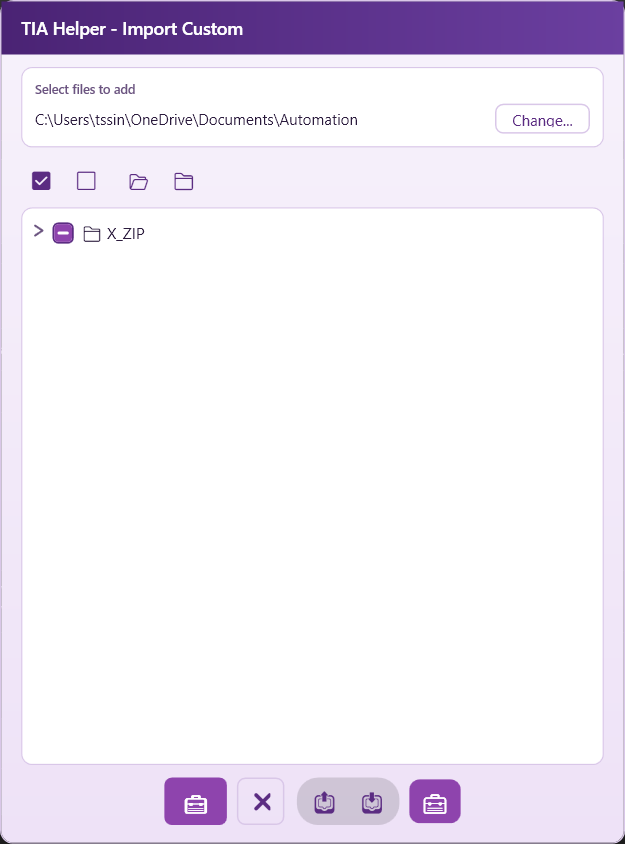
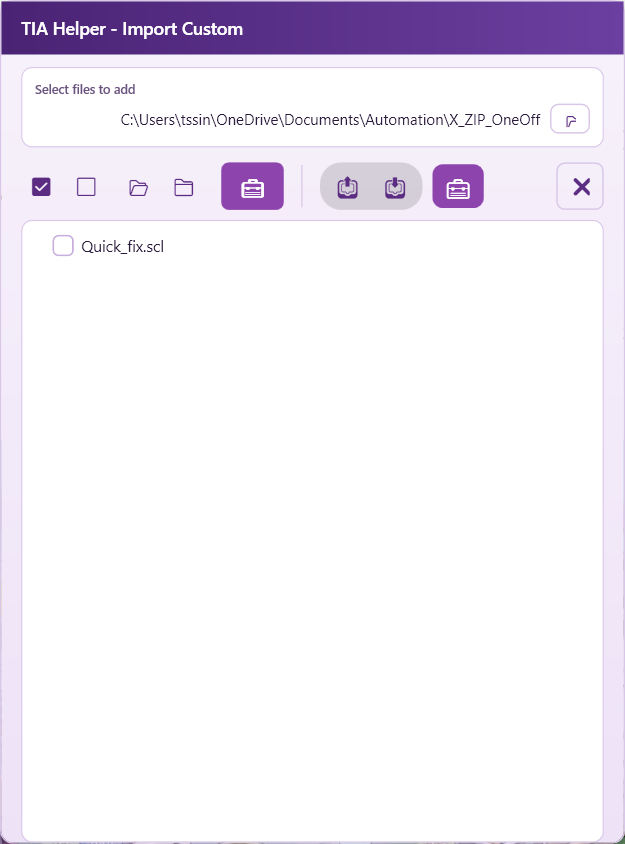
Update screenshots and add Alt+D shortcut to README
Export/Import/Custom popup screenshots were stale (showed the old
"Change..." text button instead of the current folder emoji icon, and
left-aligned path instead of right-aligned). Also documents the Alt+D
collapse/expand toolbar shortcut that was missing from the shortcuts table.

diff --git a/README.md b/README.md
@@ -72,11 +72,12 @@ Click the badge once to shrink the whole thing down to just itself:
 
 **Keyboard shortcuts** (work globally, even while TIA Portal is focused): 🎹
 
-| Shortcut | Opens |
+| Shortcut | Does |
 |---|---|
-| `Alt+Z` | Export page |
-| `Alt+X` | Import page |
-| `Alt+C` | Custom Import page |
+| `Alt+Z` | Opens the Export page |
+| `Alt+X` | Opens the Import page |
+| `Alt+C` | Opens the Custom Import page |
+| `Alt+D` | Collapses/expands the toolbar |
 | `Ctrl+Alt+I` | Runs Import immediately |
 
 </details>